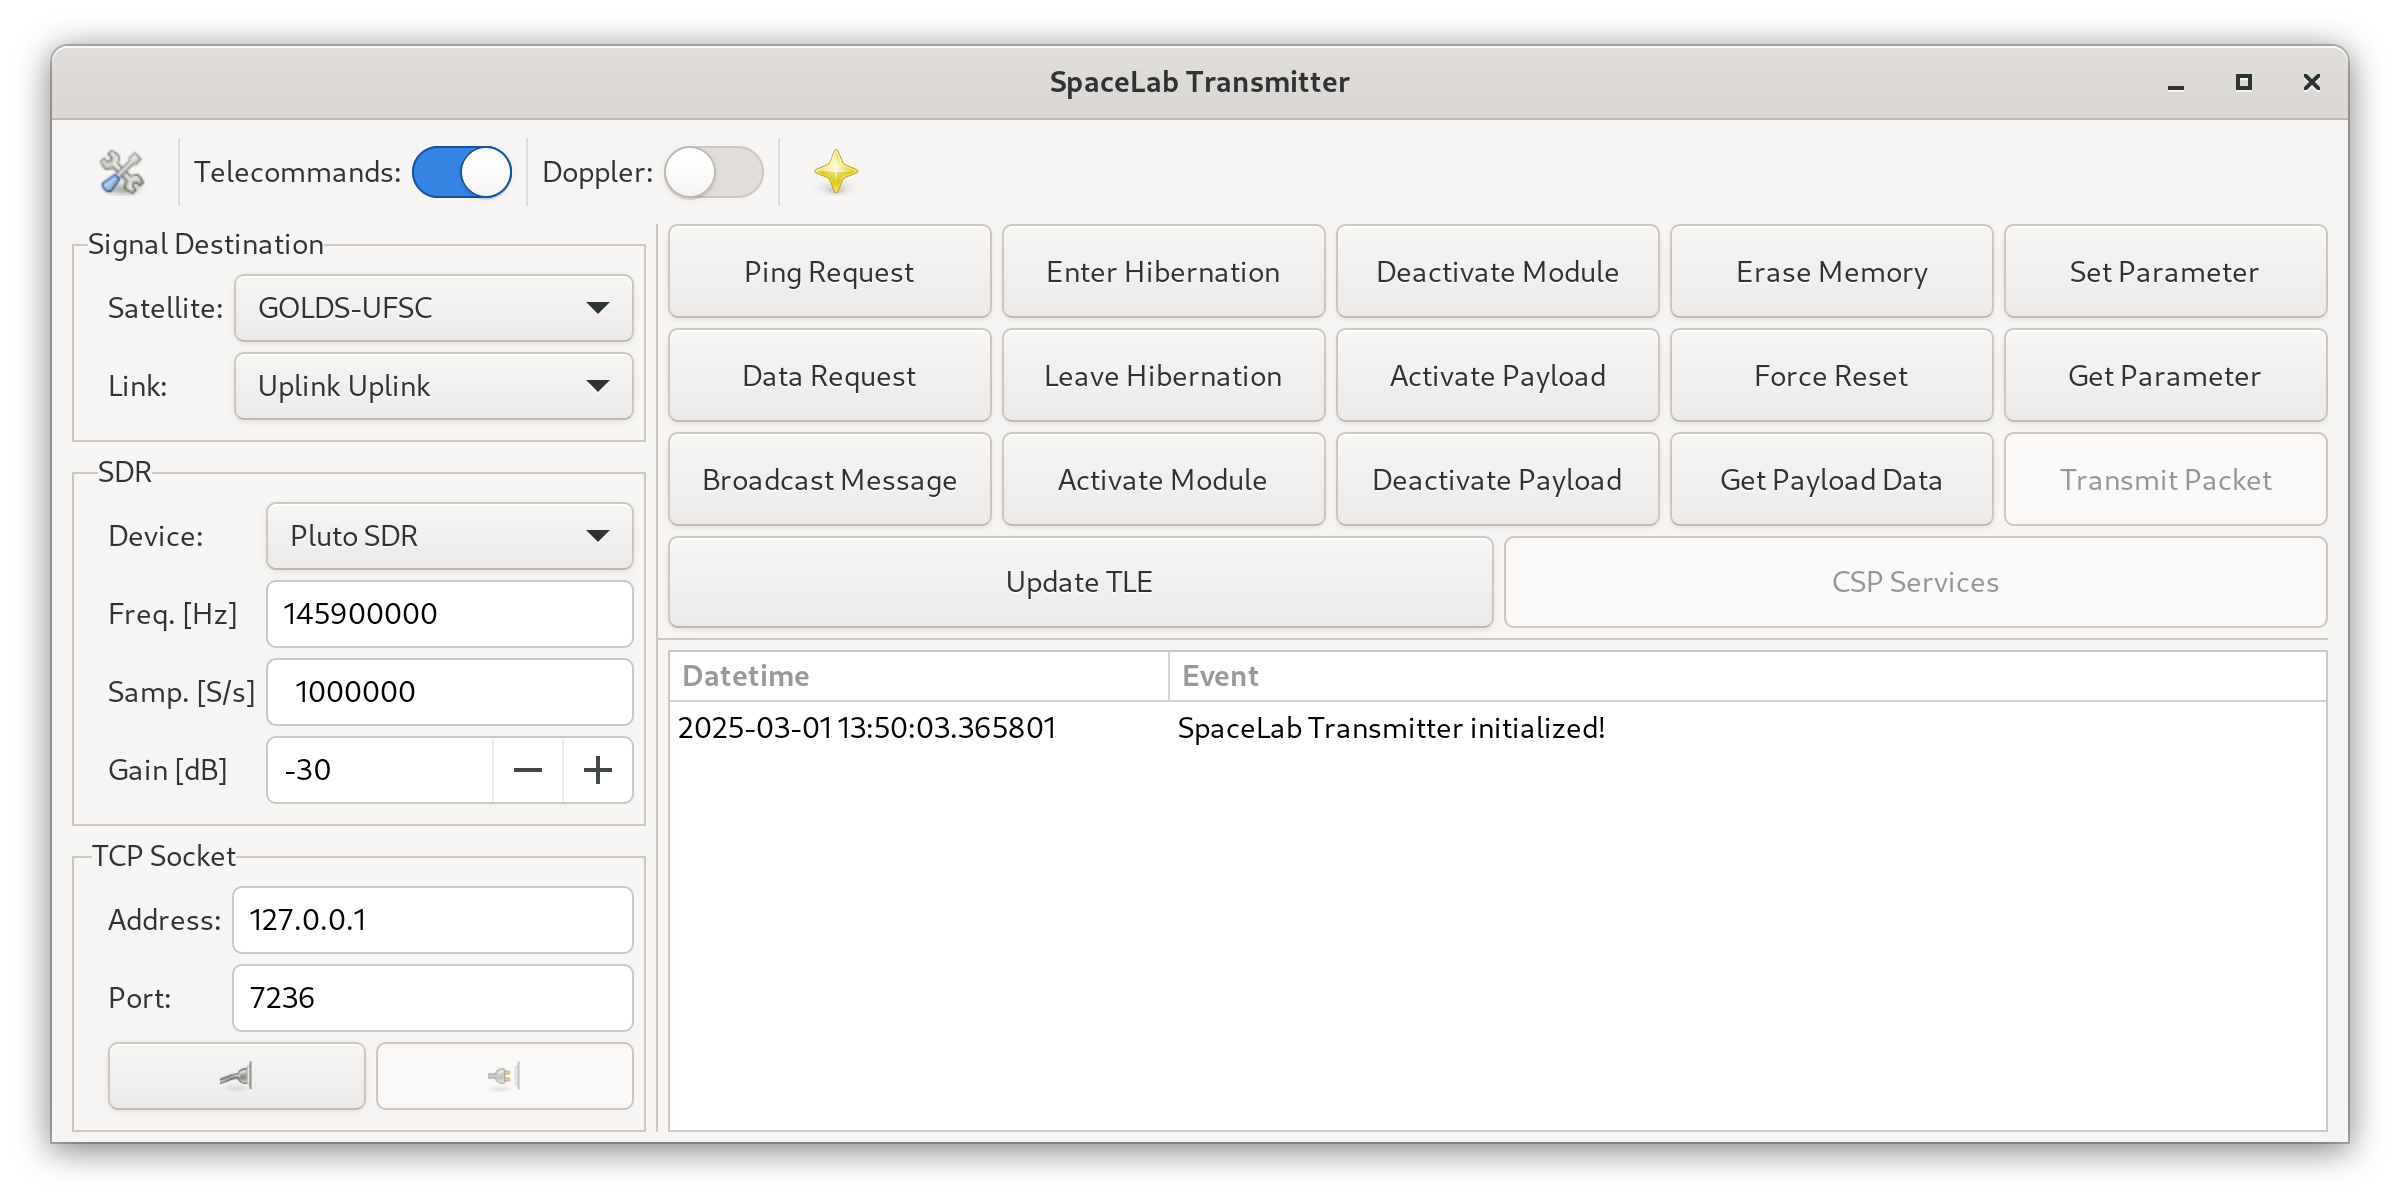
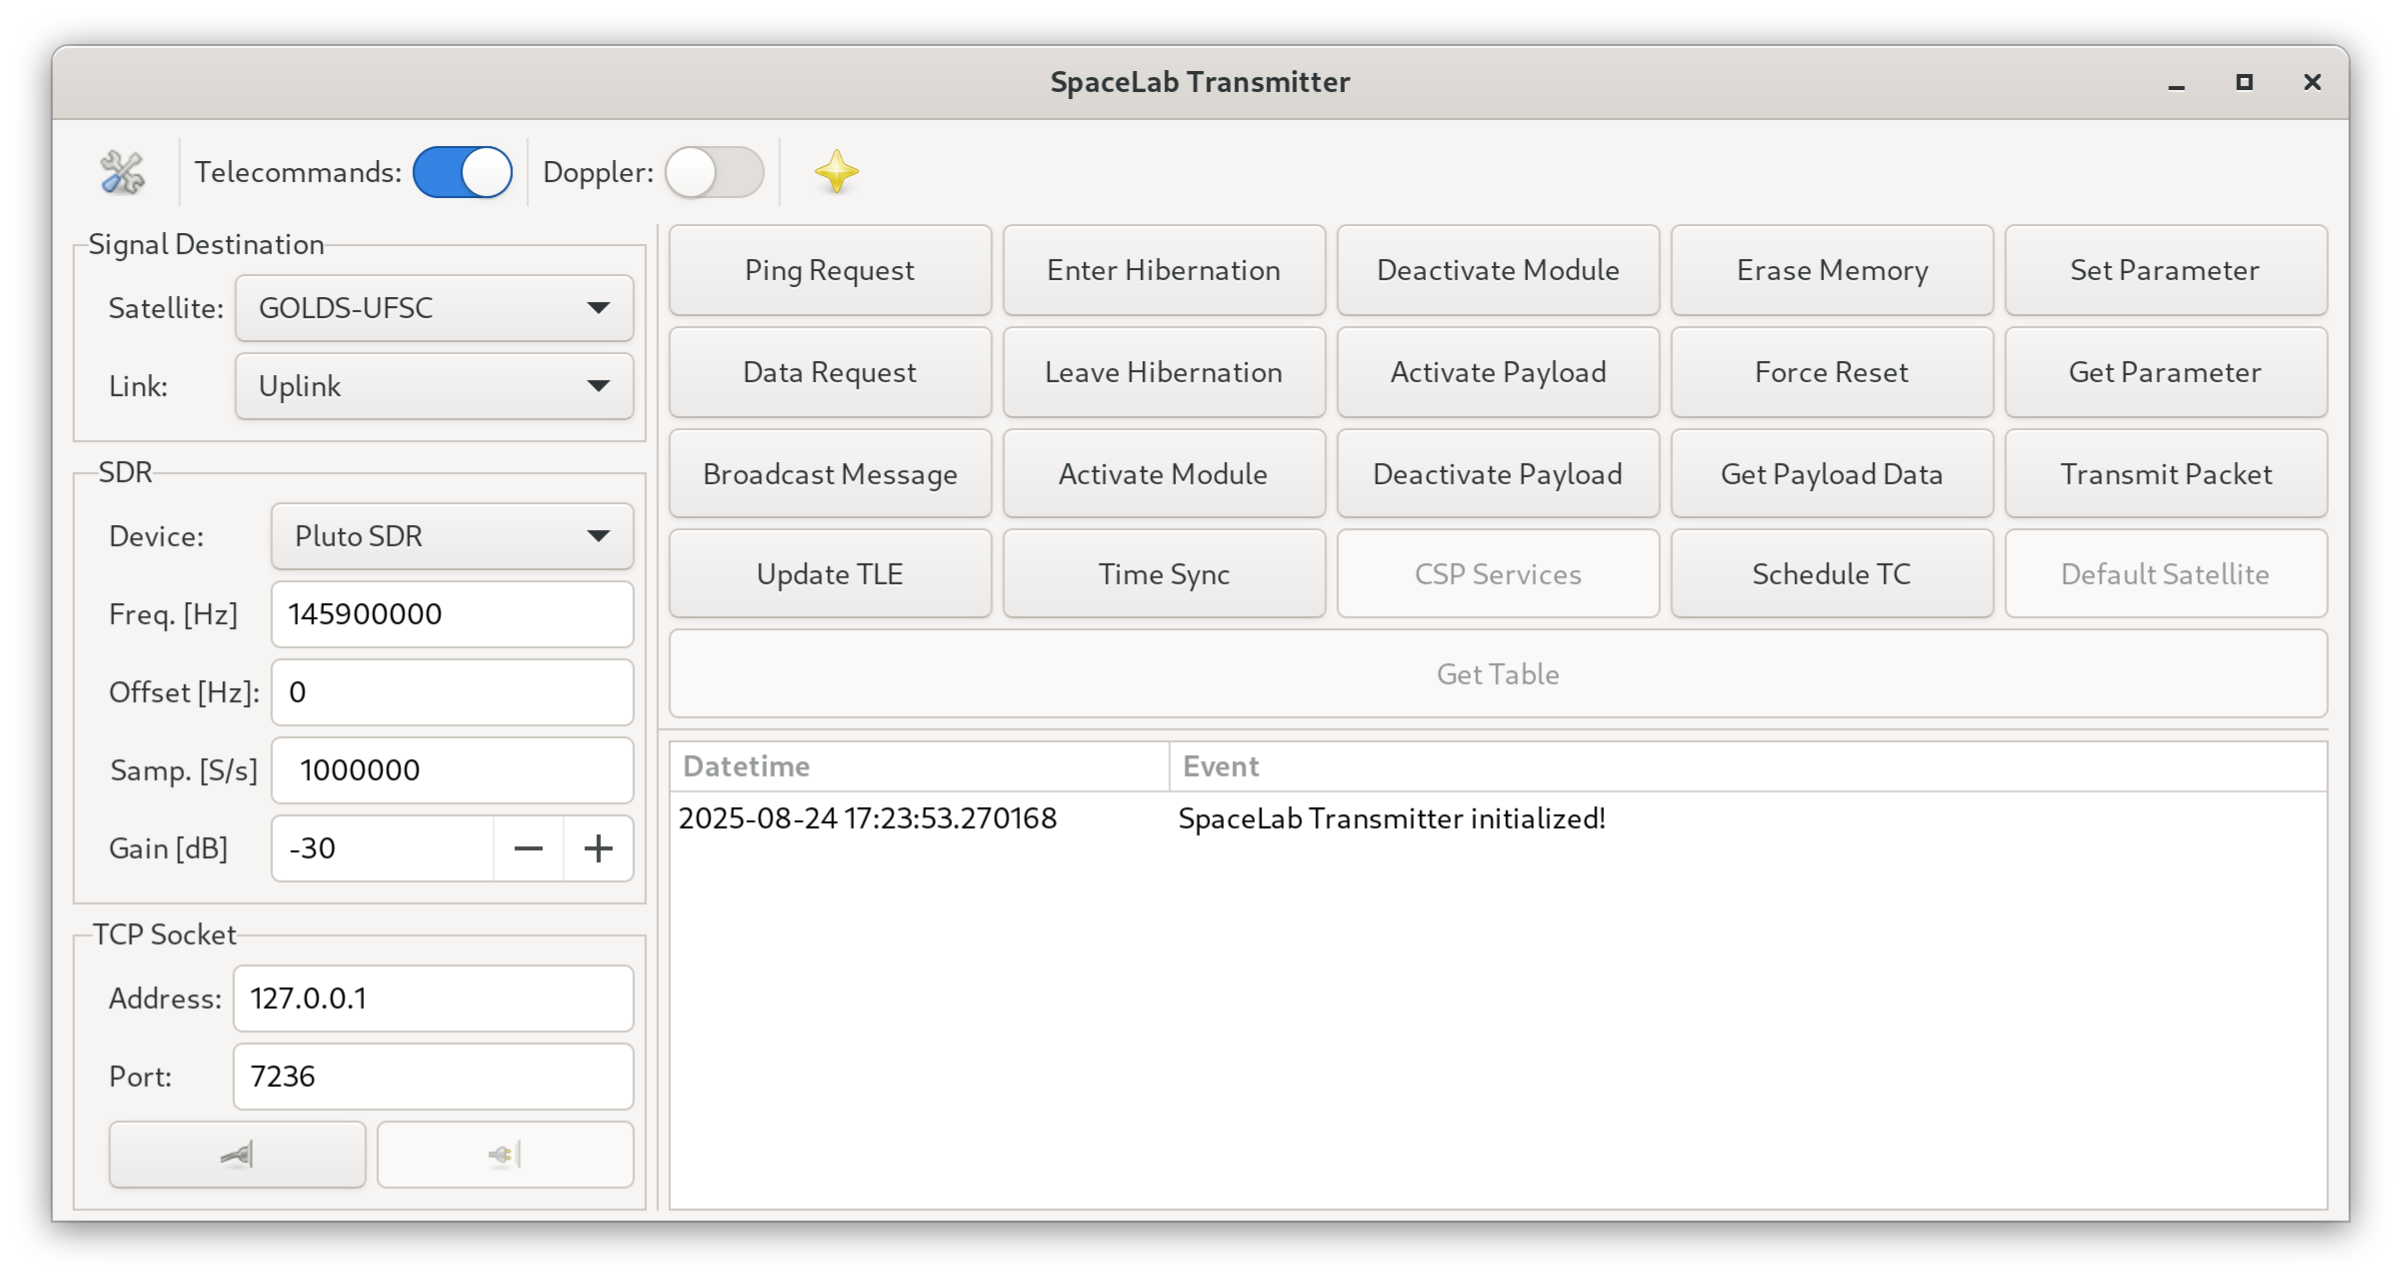
Preparing release v0.6

Changed region(s): [[0.0312, 0.0308, 0.9688, 0.9558], [0.0312, 0.8325, 0.0625, 0.8633]]

diff --git a/docs/conf.py b/docs/conf.py
@@ -22,7 +22,7 @@ copyright = 'The SpaceLab-Transmitter Contributors'
 author = 'SpaceLab'
 
 # The full version, including alpha/beta/rc tags
-release = "0.5"
+release = "0.6"
 
 # -- General configuration ---------------------------------------------------
 
